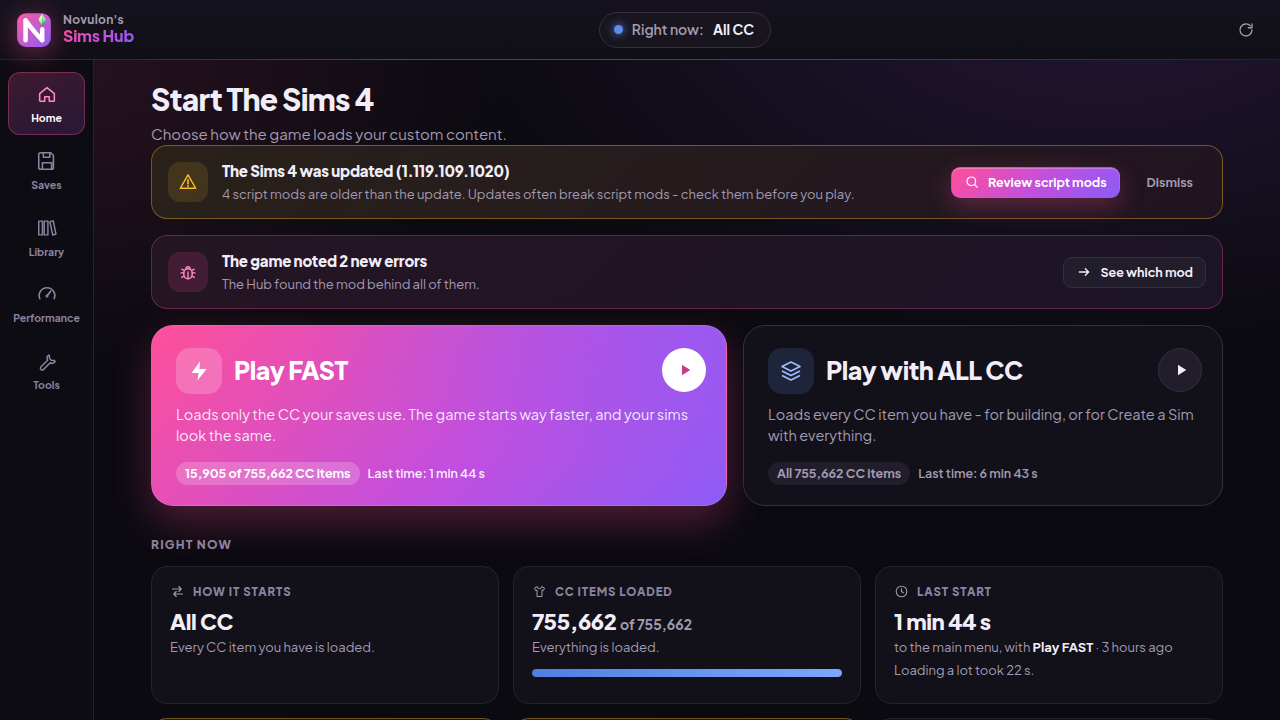
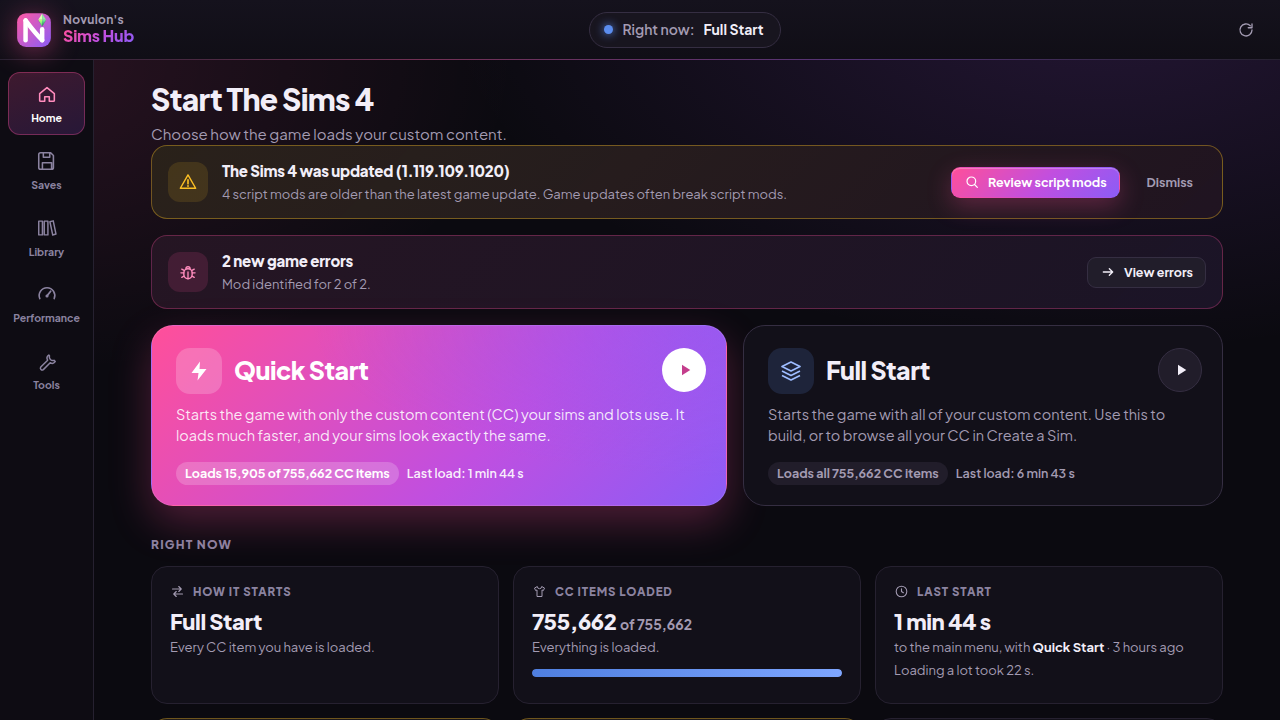
Name the start modes plainly: Quick Start and Full Start
The two start cards now say in plain words what each one does, how much CC it loads and how long the last load
took. "Play FAST" and "All CC" are renamed everywhere in the Hub.

diff --git a/sims_hub/speedkit/hub/web/js/hub.js b/sims_hub/speedkit/hub/web/js/hub.js
@@ -90,8 +90,8 @@ const gameMoved = g => !!g && g.found === false && !!(g.saved || g.exe || g.game
 
 function modeInfo(p = {}) {
   switch (p.name) {
-    case 'fast': return { key: 'FAST', title: 'Play FAST', sub: 'Only the CC your saves use is loaded.' };
-    case 'full': return { key: 'ALL CC', title: 'All CC', sub: 'Every CC item you have is loaded.', cls: 'full' };
+    case 'fast': return { key: 'QUICK', title: 'Quick Start', sub: 'Only the CC your saves use is loaded.' };
+    case 'full': return { key: 'FULL', title: 'Full Start', sub: 'Every CC item you have is loaded.', cls: 'full' };
     case 'save': {
       const s = saveBySlot(p.save_slot), m = /'(.+)'\s*$/.exec(p.label || '');
       return { key: 'ONE SAVE', title: s ? s.name : m ? m[1] : 'One save', sub: 'Only the CC this save uses is loaded.' };
@@ -101,7 +101,7 @@ function modeInfo(p = {}) {
     default: return { key: '…', title: p.label || 'Not known yet', sub: '' };
   }
 }
-const PROFILE_WORDS = { fast: 'Play FAST', full: 'All CC', save: 'One save', studio: 'Studio mode', custom: 'Your own mix' };
+const PROFILE_WORDS = { fast: 'Quick Start', full: 'Full Start', save: 'One save', studio: 'Studio mode', custom: 'Your own mix' };
 const profileWords = p => PROFILE_WORDS[p] || 'Your mods';
 
 // one entry per game start: the engine logs 'main_menu' and 'lot_loaded' as separate rows (newest first), so a
@@ -216,22 +216,22 @@ function renderHome() {
         <button class="btn primary big" data-act="find-game">${ic('search')}Locate The Sims 4</button></div>`;
     }
     const fastMeta = [];
-    if (isNum(lib.cas_fast) && isNum(lib.cas_full)) fastMeta.push(`<span class="pill">${num(lib.cas_fast)} of ${num(lib.cas_full)} CC items</span>`);
-    if (lastFast) fastMeta.push(`<span>Last time: ${dur(lastFast.launch_to_menu_s)}</span>`);
+    if (isNum(lib.cas_fast) && isNum(lib.cas_full)) fastMeta.push(`<span class="pill">Loads ${num(lib.cas_fast)} of ${num(lib.cas_full)} CC items</span>`);
+    if (lastFast) fastMeta.push(`<span>Last load: ${dur(lastFast.launch_to_menu_s)}</span>`);
     if (fp.state === 'stale' || fp.state === 'missing') fastMeta.push(`<span>First start takes a few extra minutes to get ready</span>`);
     const fullMeta = [];
-    if (isNum(lib.cas_full)) fullMeta.push(`<span class="pill">All ${num(lib.cas_full)} CC items</span>`);
-    if (lastFull) fullMeta.push(`<span>Last time: ${dur(lastFull.launch_to_menu_s)}</span>`);
+    if (isNum(lib.cas_full)) fullMeta.push(`<span class="pill">Loads all ${num(lib.cas_full)} CC items</span>`);
+    if (lastFull) fullMeta.push(`<span>Last load: ${dur(lastFull.launch_to_menu_s)}</span>`);
     top += `<div class="play-row">
       <button class="play fast" data-act="play" data-target="fast"${off}>
-        <div class="top"><div class="pic">${ic('bolt-fill')}</div><div class="t">Play FAST</div></div>
-        <div class="d">Loads only the CC your saves use. The game starts way faster, and your sims look the same.</div>
+        <div class="top"><div class="pic">${ic('bolt-fill')}</div><div class="t">Quick Start</div></div>
+        <div class="d">Starts the game with only the custom content (CC) your sims and lots use. It loads much faster, and your sims look exactly the same.</div>
         <div class="m">${fastMeta.join('')}</div>
         <span class="go">${ic('play')}</span>
       </button>
       <button class="play all" data-act="play" data-target="full"${off}>
-        <div class="top"><div class="pic">${ic('stack')}</div><div class="t">Play with ALL CC</div></div>
-        <div class="d">Loads every CC item you have - for building, or for Create a Sim with everything.</div>
+        <div class="top"><div class="pic">${ic('stack')}</div><div class="t">Full Start</div></div>
+        <div class="d">Starts the game with all of your custom content. Use this to build, or to browse all your CC in Create a Sim.</div>
         <div class="m">${fullMeta.join('')}</div>
         <span class="go">${ic('play')}</span>
       </button></div>`;
@@ -474,14 +474,14 @@ function loadTimes() {
   const fast = avg(rows.filter(r => FASTISH.has(r.profile))), full = avg(rows.filter(r => !FASTISH.has(r.profile)));
   const tiles = [
     `<div class="tile"><div class="lbl"><i class="sw" style="background:var(--fast)"></i>Fast start, on average</div><b>${fast === null ? '—' : dur(fast)}</b></div>`,
-    `<div class="tile"><div class="lbl"><i class="sw" style="background:var(--full)"></i>All CC, on average</div><b>${full === null ? '—' : dur(full)}</b></div>`,
+    `<div class="tile"><div class="lbl"><i class="sw" style="background:var(--full)"></i>Full Start, on average</div><b>${full === null ? '—' : dur(full)}</b></div>`,
     fast && full && full > fast
       ? `<div class="tile hero"><div class="lbl">${ic('bolt')}Fast start is</div><b>${(full / fast).toFixed(1).replace(/\.0$/, '')}x faster</b></div>`
       : `<div class="tile"><div class="lbl">${ic('clock')}Starts timed</div><b>${num(rows.length)}</b></div>`,
   ];
   return `<div class="tiles">${tiles.join('')}</div>
     <div class="chart" id="chart" role="img" aria-label="Start times, oldest on the left"></div>
-    <div class="legend"><span><i style="background:var(--fast)"></i>Fast start (Play FAST, one save or Studio)</span><span><i style="background:var(--full)"></i>All CC</span></div>
+    <div class="legend"><span><i style="background:var(--fast)"></i>Quicker starts (Quick Start, one save or Studio)</span><span><i style="background:var(--full)"></i>Full Start</span></div>
     <details class="more"><summary>See every start as a list</summary><div class="table-wrap"><table class="t">
       <thead><tr><th>When</th><th>How it started</th><th>To the main menu</th><th>Loading a lot</th></tr></thead><tbody>
       ${rows.map(r => `<tr><td>${esc(dayTime(r.time))}</td><td>${esc(profileWords(r.profile))}</td>
@@ -542,7 +542,7 @@ function drawChart() {
 const KIND = {
   profile: ['Changed how the game starts', 'swap'], inbox: ['Added new downloads', 'download'], dedup: ['Removed extra copies of CC', 'broom'],
   merge: ['Tidied your CC into fewer files', 'layers'], settings: ['Changed the graphics', 'image'], caches: ["Cleared the game's caches", 'broom'],
-  fastpack: ['Prepared Play FAST', 'bolt'], savepack: ['Prepared a save to play', 'bolt'], usedpack: ["Prepared your saves' CC", 'bolt'],
+  fastpack: ['Prepared Quick Start', 'bolt'], savepack: ['Prepared a save to play', 'bolt'], usedpack: ["Prepared your saves' CC", 'bolt'],
   install: ['Updated the SpeedKit Monitor', 'gauge'], monitor: ['Updated the SpeedKit Monitor', 'gauge'], cleanup: ['Removed extra copies of CC', 'broom'],
 };
 const kindOf = k => KIND[k] || ['A change', 'spark'];
@@ -558,7 +558,7 @@ function describeChange(j) {
   const note = String(j.note || ''), [label, icon] = kindOf(j.kind);
   let m, title = label;
   if (j.kind === 'profile' && (m = /^switch to (\w+)/i.exec(note))) {
-    title = { fast: 'Switched to Play FAST', full: 'Switched to All CC', studio: 'Switched to Studio mode', custom: 'Switched to your own mix' }[m[1].toLowerCase()]
+    title = { fast: 'Switched to Quick Start', full: 'Switched to Full Start', studio: 'Switched to Studio mode', custom: 'Switched to your own mix' }[m[1].toLowerCase()]
       || 'Switched to one save';
   } else if (j.kind === 'inbox' && (m = /^(\d+) download/.exec(note))) title = `Added ${plural(+m[1], 'new download')}`;
   else if (j.kind === 'settings' && /max quality/i.test(note)) title = 'Graphics: Max Quality, lag fixed';
@@ -674,8 +674,8 @@ async function ensureGraphics(force = false) {
 
 // ------------------------------------------------------------------------------------------ tasks and the progress window
 function playTitle(target) {
-  if (target === 'fast') return 'Starting Play FAST';
-  if (target === 'full') return 'Starting with ALL CC';
+  if (target === 'fast') return 'Starting with Quick Start';
+  if (target === 'full') return 'Starting with Full Start';
   if (target === 'studio') return 'Starting Studio mode';
   const s = saveBySlot(String(target || '').replace(/^save:/, ''));
   return s ? `Starting "${s.name}"` : 'Starting your save';
@@ -1310,7 +1310,7 @@ function ccCard(it) {
   if (it.broken) badges.push(`<span class="cc-badge bad" title="${esc(it.broken)}">Damaged</span>`);
   if (it.duplicate_of) badges.push(`<span class="cc-badge dup" title="Everything in it is also in ${esc(it.duplicate_of)}">Duplicate</span>`);
   if (it.used === false) badges.push(`<span class="cc-badge" title="Not used by any save or in-game library household">Not used</span>`);
-  if (!it.in_mods) badges.push(`<span class="cc-badge" title="Moved out of Mods by Play FAST or one-save mode; back with All CC">Put away</span>`);
+  if (!it.in_mods) badges.push(`<span class="cc-badge" title="Moved out of Mods by Quick Start or one-save mode; back with Full Start">Put away</span>`);
   const sub = [it.body && it.body !== it.category_label ? it.body : it.category_label, it.creator || it.folder].filter(Boolean).join(' · ');
   return `<div class="cc-card${sel ? ' selected' : ''}" data-id="${it.id}" data-cat="${esc(it.category)}" tabindex="0" title="${esc(it.rel || it.name)}">
     <div class="cc-pic">${src ? `<img src="${src}" alt="" loading="lazy" decoding="async" data-cat="${esc(it.category)}">` : `<div class="cc-ph">${ccIc(it.category)}</div>`}
@@ -1392,7 +1392,7 @@ async function ccDetails(id) {
     ${used}
     ${r.broken ? `<div class="note err">${ic('warn')}<span>${esc(r.broken)}</span></div>` : ''}
     ${r.duplicate_of ? `<div class="note warn">${ic('warn')}<span>Everything in this file is also in <b>${esc(r.duplicate_of)}</b>. Only one of the two is needed.</span></div>` : ''}
-    ${r.in_mods ? '' : `<div class="note">${ic('info')}<span>Moved out of the Mods folder by Play FAST or one-save mode. It is back when the game starts with All CC.</span></div>`}`;
+    ${r.in_mods ? '' : `<div class="note">${ic('info')}<span>Moved out of the Mods folder by Quick Start or one-save mode. It is back when the game starts with Full Start.</span></div>`}`;
   const foot = document.createElement('footer');
   foot.innerHTML = `<span class="hint">${r.kind === 'script' ? 'Script mods are left alone by the Hub.' : 'Setting aside can be undone on the Tools page.'}</span>
     <button class="btn" data-open>${ic('folder')}Open folder</button>

diff --git a/sims_hub/speedkit/hub/web/js/care.js b/sims_hub/speedkit/hub/web/js/care.js
@@ -44,7 +44,7 @@ function mins(s) {
   const m = Math.round(s / 60);
   return m < 60 ? `${m} min` : `${Math.floor(m / 60)} h ${m % 60} min`;
 }
-const MODE = { fast: 'Play FAST', save: 'One save', full: 'All CC', studio: 'Studio mode', other: 'Other' };
+const MODE = { fast: 'Quick Start', save: 'One save', full: 'Full Start', studio: 'Studio mode', other: 'Other' };
 const fileOf = rel => String(rel || '').split('/').pop();
 
 // -------------------------------------------------------------------------------- Home
@@ -88,7 +88,7 @@ export function homeSavings() {
         <b>${mins(d.total_s)}</b><small>${H.plural(d.starts, 'start')}</small></div>`;
     }).join('')}</div>`;
     if (H.isNum(r.saved_s) && r.saved_s > 0) {
-      body += `<div class="care-saved">${ic('bolt')}<div><b>${esc(MODE[r.compare] || 'Play FAST')}: about ${mins(r.saved_s)} less per start than All CC</b>
+      body += `<div class="care-saved">${ic('bolt')}<div><b>${esc(MODE[r.compare] || 'Quick Start')}: about ${mins(r.saved_s)} less per start than Full Start</b>
         ${H.isNum(r.saved_total_s) && r.saved_total_s >= 120 ? `<span>${mins(r.saved_total_s)} saved in total so far.</span>` : ''}</div></div>`;
     }
     if (r.confidence !== 'ok') body += `<div class="note">${ic('info')}<span>${esc(r.message)}</span></div>`;

diff --git a/sims_hub/tests/test_hub_screens.py b/sims_hub/tests/test_hub_screens.py
@@ -28,20 +28,20 @@ OUT = os.environ.get('SIMS_HUB_SCREENS') or os.path.join(os.path.dirname(os.path
 
 # (name, url, window size, what the page must show)
 PAGES = [
-    ('home', '/#home', (1440, 1000), ['Start The Sims 4', 'Play FAST', 'Play with ALL CC', 'Chrome is using 20 GB', '755,662',
+    ('home', '/#home', (1440, 1000), ['Start The Sims 4', 'Quick Start', 'Full Start', 'Chrome is using 20 GB', '755,662',
                                     'Loading a lot took 22 s']),
-    ('home_1280x720', '/#home', (1280, 720), ['Play FAST']),
+    ('home_1280x720', '/#home', (1280, 720), ['Quick Start']),
     ('saves', '/#saves', (1440, 1000), ['Wicked Nights', '12,480 CC items', 'Play this save', 'Novulon · Del Sol Valley']),
     ('saves_1100x700', '/#saves', (1100, 700), ['Legacy Challenge']),
     ('library', '/#library', (1440, 1200), ['Add new downloads', 'Sentate_Venus_Dress.package', 'Free up space', 'Library report', 'Inbox']),
     ('performance', '/#performance', (1440, 2000), ['How far away sims keep full detail', 'speedkit.lag', 'faster', 'Graphics']),
-    ('tools', '/#tools', (1440, 1250), ["Open Novulon's Wicked Animator", 'Undo last change', 'Switched to All CC', 'E:\\The Sims 4',
+    ('tools', '/#tools', (1440, 1250), ["Open Novulon's Wicked Animator", 'Undo last change', 'Switched to Full Start', 'E:\\The Sims 4',
                                          'Added 3 new downloads', 'Installed the SpeedKit Monitor', 'Removed extra copies of CC']),
     ('tools_900x800', '/#tools', (900, 800), ['Recent changes']),
     ('finder', '/?open=finder#home', (1440, 1000), ['Find The Sims 4', 'Found on this PC', 'Use this', 'Games (E:)', '402 GB free']),
     ('finder_folder', '/?open=finder&path=E%3A%5C#home', (1440, 1000), ['SteamLibrary', 'Steam', 'Select']),
     ('finder_game_folder', '/?open=finder&path=E%3A%5CThe%20Sims%204#home', (1440, 1000), ['This folder is The Sims 4', 'Game', 'Data']),
-    ('confirm_undo', '/?open=undo#tools', (1440, 1000), ['Undo the last change?', 'Switched to All CC', 'Keep it']),
+    ('confirm_undo', '/?open=undo#tools', (1440, 1000), ['Undo the last change?', 'Switched to Full Start', 'Keep it']),
     ('confirm_cleanup', '/?open=cleanup#library', (1440, 1000), ['Free up 18.2 GB?', '4,210']),
 ]
 # pages that need the example data changed first: name -> (url, size, must show, setup(state))
@@ -174,7 +174,7 @@ class HubScreens(unittest.TestCase):
         stub_api.HOLD, stub_api.HOLD_AT = threading.Event(), 3
         hub.start('play', {'target': 'fast'})
         try:
-            self.check('task_running', '/#home', (1440, 1000), ['Starting Play FAST', 'Updating the SpeedKit Monitor'])
+            self.check('task_running', '/#home', (1440, 1000), ['Starting Quick Start', 'Updating the SpeedKit Monitor'])
         finally:
             stub_api.HOLD.set()
         for _ in range(200):

diff --git a/sims_hub/speedkit/hub/stub_api.py b/sims_hub/speedkit/hub/stub_api.py
@@ -48,7 +48,7 @@ def _initial_state():
         'game_running': False,
         'game': {'found': True, 'exe': r'E:\The Sims 4\Game\Bin\TS4_x64.exe', 'game_dir': r'E:\The Sims 4',
                  'source': 'EA app', 'store': 'ea', 'saved': False, 'message': r'The Sims 4 is at E:\The Sims 4.'},
-        'profile': {'name': 'full', 'save_slot': None, 'label': 'All CC - every mod is loaded'},
+        'profile': {'name': 'full', 'save_slot': None, 'label': 'Full Start - all CC is loaded'},
         'graphics': {'state': 'sgr_full', 'label': "Simp4Sims 'SGR Full' - looks great but causes lag", 'can_tune': True,
                      'details': ['Sims far away are drawn in full detail, which slows the game down.',
                                  'Shadows and reflections are set higher than the game can use.']},
@@ -158,7 +158,7 @@ def list_saves(progress=None):
 
 
 # ------------------------------------------------------------------ play
-_LABELS = {'fast': ('fast', 'Fast mode - only the CC your sims use'), 'full': ('full', 'All CC - every mod is loaded'),
+_LABELS = {'fast': ('fast', 'Quick Start - only the CC your sims use'), 'full': ('full', 'Full Start - all CC is loaded'),
            'studio': ('studio', 'Studio - the animation work set')}
 
 
@@ -239,7 +239,7 @@ def undo_last(progress=None):
         if last['kind'] == 'settings':
             STATE['graphics'].update(state='sgr_full', label="Simp4Sims 'SGR Full' - looks great but causes lag", can_tune=True)
         if last['kind'] == 'profile':
-            STATE['profile'] = {'name': 'full', 'save_slot': None, 'label': 'All CC - every mod is loaded'}
+            STATE['profile'] = {'name': 'full', 'save_slot': None, 'label': 'Full Start - all CC is loaded'}
         if last['kind'] == 'setaside':
             _cc_restore(last['id'])
     on_undo(last)                    # patch day / save backups (stub_care.py)
@@ -802,8 +802,8 @@ def cc_set_aside(ids, progress=None):
             elif it['kind'] == 'script':
                 refused.append({'name': it['name'], 'why': 'Script mods are not changed by the Hub.'})
             elif not it['in_mods']:
-                refused.append({'name': it['name'], 'why': "It is not in the Mods folder right now (moved out by Play FAST or "
-                                                           "one-save mode). Switch to All CC first."})
+                refused.append({'name': it['name'], 'why': "It is not in the Mods folder right now (moved out by Quick Start or "
+                                                           "one-save mode). Switch to Full Start first."})
             else:
                 done.append(it)
     if not done:

diff --git a/sims_hub/speedkit/loadstats.py b/sims_hub/speedkit/loadstats.py
@@ -1,4 +1,4 @@
-r"""How long the game takes to load in each mode, and the time Play FAST saves - from SpeedKit Monitor's
+r"""How long the game takes to load in each mode, and the time Quick Start saves - from SpeedKit Monitor's
 loadtimes.csv (<Sims 4>\SpeedKit\reports\loadtimes.csv, columns in docs\ingame.md).
 
     summary(csv_path)   # {'modes': {...}, 'saved_s', 'saved_total_s', 'confidence', 'message'}
@@ -9,7 +9,7 @@ One entry per game start (rows are grouped by their 'launch_time'; rows without 
     picking a save, not the time spent in the menu;
   * load time = both together (only the menu part when no lot was loaded).
 A mode's typical time is the median of its starts (one very slow start - a patch, an update of the fast pack -
-does not skew it). The saving compares All CC with the fast modes (Play FAST, else One save) and is only
+does not skew it). The saving compares Full Start with the fast modes (Quick Start, else One save) and is only
 claimed when both have starts; 'confidence' is 'none' (no starts), 'one_mode' (only one side measured), 'low'
 (fewer than 3 starts on a side) or 'ok'.
 """
@@ -124,7 +124,7 @@ def _dur(s):
     return '%d h %d min' % (m // 60, m % 60)
 
 
-WORDS = {'fast': 'Play FAST', 'save': 'One save', 'full': 'All CC', 'studio': 'Studio mode', 'other': 'Other'}
+WORDS = {'fast': 'Quick Start', 'save': 'One save', 'full': 'Full Start', 'studio': 'Studio mode', 'other': 'Other'}
 
 
 def _message(view, fast_key, saved, confidence):
@@ -135,10 +135,10 @@ def _message(view, fast_key, saved, confidence):
     line = ' - '.join(parts)
     if confidence == 'one_mode':
         if view.get('full') and view['full']['total_s']:
-            return line + '. Start once with Play FAST to compare.'
-        return line + '. Start once with All CC to compare.'
+            return line + '. Start once with Quick Start to compare.'
+        return line + '. Start once with Full Start to compare.'
     if saved is not None and saved <= 0:
-        return line + '. So far Play FAST has not been quicker on this PC.'
+        return line + '. So far Quick Start has not been quicker on this PC.'
     tail = ' (about %s less per start)' % _dur(saved) if saved else ''
     if confidence == 'low':
         return line + tail + '. Based on only a few starts so far; the figures become more reliable with more starts.'

diff --git a/sims_hub/speedkit/report.py b/sims_hub/speedkit/report.py
@@ -34,7 +34,7 @@ th{background:#2a2140;color:#cbb8ff}
 
 
 # the words the Hub uses (docs\hub_contract.md: no 'package', 'profile', 'journal', 'CAS part' ...)
-MODE_WORDS = {'fast': 'Play FAST', 'full': 'All CC', 'save': 'One save', 'studio': 'Studio mode',
+MODE_WORDS = {'fast': 'Quick Start', 'full': 'Full Start', 'save': 'One save', 'studio': 'Studio mode',
               'lean': 'Studio mode', 'custom': 'Your own mix'}
 PACK_WORDS = {'fresh': 'ready', 'stale': 'gets a quick update when you press Play',
               'missing': 'made the first time you press Play'}
@@ -62,17 +62,17 @@ def build(status, saves, graphics_table):
     for label, value in (('CC and mod files', '%s files' % _num(lib.get('packages'))),
                          ('Library size', '%s GB' % _num(lib.get('gb'), '{:,.1f}')),
                          ('CC items (all CC)', _num(cas_full)),
-                         ('CC items (Play FAST)', _num(cas_fast)),
+                         ('CC items (Quick Start)', _num(cas_fast)),
                          ('How the game starts', MODE_WORDS.get(prof.get('name')) or prof.get('label')),
                          ('Graphics', gr.get('label')),
                          ('Free memory', '%s of %s GB' % (_num(mem.get('free_gb'), '{:.1f}'), _num(mem.get('total_gb'), '{:.1f}'))),
-                         ('Play FAST', '%s%s' % (PACK_WORDS.get(fp.get('state'), fp.get('state') or '-'),
+                         ('Quick Start', '%s%s' % (PACK_WORDS.get(fp.get('state'), fp.get('state') or '-'),
                                                  (' (%.1f GB)' % fp['gb']) if fp.get('gb') else '')),
                          ('Free on C:', '%s GB' % _num((st.get('disk') or {}).get('c_free_gb'), '{:.0f}'))):
         out.append("<div class='card'>%s<b>%s</b></div>" % (_e(label), _e(value)))
     out.append('</div>')
     if cas_full and cas_fast:
-        out.append("<p>Play FAST loads <b>%.1f%%</b> of your CC items - the number that decides how long the game "
+        out.append("<p>Quick Start loads <b>%.1f%%</b> of your CC items - the number that decides how long the game "
                    "takes to start.</p>" % (100.0 * cas_fast / cas_full))
     out.append('<h2>Your saves</h2>')
     if saves:

diff --git a/sims_hub/tests/test_e2e_hub.py b/sims_hub/tests/test_e2e_hub.py
@@ -1035,7 +1035,7 @@ class Story(unittest.TestCase):
         self.assertEqual(st['inbox'], {'path': os.path.join(self.home, 'Inbox'), 'waiting': 0})
         self.assertEqual(st['animator'], {'installed': True, 'path': self.w['animator']})
         self.check_all('1 status', 'studio')
-        self.screens('01_start', must={'home': ['Start The Sims 4', 'Play FAST', 'Play with ALL CC', 'Studio mode',
+        self.screens('01_start', must={'home': ['Start The Sims 4', 'Quick Start', 'Full Start', 'Studio mode',
                                                 CC_SENTENCE['studio']],
                                        'tools': ['Recent changes', "Open Novulon's Wicked Animator", REAL_GAME]})
 
@@ -1102,7 +1102,7 @@ class Story(unittest.TestCase):
         self.assertEqual(st['library']['cas_now'], self.cas_entries_in_mods())
         self.assertLess(st['library']['cas_now'], st['library']['cas_full'])
         self.screens('03_fast', ('home', 'saves', 'performance'),
-                     must={'home': [CC_SENTENCE['fast'], 'Play FAST', 'Max Quality, lag fixed'],
+                     must={'home': [CC_SENTENCE['fast'], 'Quick Start', 'Max Quality, lag fixed'],
                            'saves': list(self.save_names.values())})
 
     def cas_entries_in_mods(self):
@@ -1228,7 +1228,7 @@ class Story(unittest.TestCase):
     def test_10_cleanup(self):
         r = self.task('cleanup_plan')
         self.assertFalse(r['ok'])
-        self.assertIn('All CC', r['message'])
+        self.assertIn('Full Start', r['message'])
         self._play('full', launch=False)
         self.check_all('10a prepare full', 'full', refusals=False)
         eff_db = os.path.join(self.w['data'], 'effective.sqlite')

diff --git a/sims_hub/speedkit/api.py b/sims_hub/speedkit/api.py
@@ -280,7 +280,7 @@ def _game_ids(game):
 
 
 # ------------------------------------------------------------------------------------------ status
-PROFILE_LABELS = {'full': 'All CC - every mod is loaded', 'fast': 'Fast mode - only the CC your sims use',
+PROFILE_LABELS = {'full': 'Full Start - all CC is loaded', 'fast': 'Quick Start - only the CC your sims use',
                   'studio': 'Studio - the animation work set', 'custom': 'Custom - changed by hand or another tool'}
 
 
@@ -614,7 +614,7 @@ def _journals(limit=15):
     return out[:limit] if limit else out
 
 
-_MODE_WORDS = {'full': 'All CC', 'fast': 'Fast mode', 'studio': 'Studio', 'save': 'Play this save'}
+_MODE_WORDS = {'full': 'Full Start', 'fast': 'Quick Start', 'studio': 'Studio', 'save': 'Play this save'}
 
 
 def _title(j):
@@ -1035,7 +1035,7 @@ def _plain_warning(w):
 
 
 def _switch_message(profile, slot, plan):
-    names = {'full': 'All CC', 'fast': 'Fast mode', 'studio': 'Studio'}
+    names = {'full': 'Full Start', 'fast': 'Quick Start', 'studio': 'Studio'}
     what = names.get(profile) or 'Play this save (%s)' % slot
     if plan.get('nothing_to_do'):
         return 'Mods folder: already set to %s.' % what
@@ -1395,7 +1395,7 @@ def _packs_in_mods():
     return out
 
 
-PACKS_IN_MODS = "Freeing disk space works in the 'All CC' mode only. Prepare 'All CC' first, then try again."
+PACKS_IN_MODS = "Freeing disk space works in the 'Full Start' mode only. Prepare 'Full Start' first, then try again."
 
 
 def _dedup_plan(tell):

diff --git a/sims_hub/tests/test_care_loadtimes.py b/sims_hub/tests/test_care_loadtimes.py
@@ -38,11 +38,11 @@ class LoadTimes(unittest.TestCase):
         r = api.load_savings()
         self.assertEqual(r['confidence'], 'one_mode')
         self.assertIsNone(r['saved_s'])
-        self.assertIn('All CC: 43 min', r['message'])
-        self.assertIn('Start once with Play FAST to compare', r['message'])
+        self.assertIn('Full Start: 43 min', r['message'])
+        self.assertIn('Start once with Quick Start to compare', r['message'])
         F.write_loadtimes(self.sims, [('2026-09-20 18:00:00', 'fast', 170.0, 10.0)])
         r = api.load_savings()
-        self.assertIn('Start once with All CC to compare', r['message'])
+        self.assertIn('Start once with Full Start to compare', r['message'])
 
     def test_few_starts_are_said_to_be_few(self):
         F.write_loadtimes(self.sims, [('2026-09-20 18:00:00', 'full', 2400.0, 180.0),
@@ -50,7 +50,7 @@ class LoadTimes(unittest.TestCase):
         r = api.load_savings()
         self.assertEqual(r['confidence'], 'low')
         self.assertEqual(r['saved_s'], 2400.0)
-        self.assertIn('Play FAST: 3 min - All CC: 43 min (about 40 min less per start)', r['message'])
+        self.assertIn('Quick Start: 3 min - Full Start: 43 min (about 40 min less per start)', r['message'])
         self.assertIn('only a few starts', r['message'])
 
     def test_medians_and_total_saved(self):

diff --git a/sims_hub/speedkit/hub/care_routes.py b/sims_hub/speedkit/hub/care_routes.py
@@ -4,7 +4,7 @@ server.py hands these requests over (its docstring lists them):
   GET  /api/patchday[?refresh=1]      api.patch_day(): the game's last update, older script mods, mods set aside
   GET  /api/errors[?refresh=1]        api.game_errors(): the game's error reports, grouped, with the mod named
   GET  /api/save_health[?refresh=1]   api.save_health(): each save's size and growth, and the save backups
-  GET  /api/load_savings[?refresh=1]  api.load_savings(): load time per mode and the time Play FAST saves
+  GET  /api/load_savings[?refresh=1]  api.load_savings(): load time per mode and the time Quick Start saves
       (these read files only; while a task runs they give their last answer, or 'busy')
   POST /api/patchday/seen             api.patch_seen(): the patch-day notice was seen
   POST /api/errors/seen               api.errors_seen(): hide the errors seen so far

diff --git a/sims_hub/tests/test_care_ui.py b/sims_hub/tests/test_care_ui.py
@@ -137,7 +137,7 @@ class CareUI(unittest.TestCase):
         self.assertIn('4 script mods are older than the latest game update', p.inner_text('[data-care="patch-banner"]'))
         self.assertIn('2 new game errors', p.inner_text('[data-care="errors-banner"]'))
         savings = p.inner_text('[data-care="savings"]')
-        for words in ('How long the game takes to load', 'Play FAST', 'All CC', 'about 6 min less per start than All CC'):
+        for words in ('How long the game takes to load', 'Quick Start', 'Full Start', 'about 6 min less per start than Full Start'):
             self.assertIn(words, savings)
         self.assertTrue(any(path.startswith('load_savings') for _, path, _ in self.calls))
         # "Dismiss" tells the server and the notice goes

diff --git a/sims_hub/speedkit/ccbrowser.py b/sims_hub/speedkit/ccbrowser.py
@@ -1172,8 +1172,8 @@ def set_aside(idx, ids, sims, home, check_game=True, progress=None, journal_cls=
             continue
         path = os.path.join(mods, row['rel'].replace('/', os.sep))
         if row['root'] != 'Mods' or not os.path.isfile(path):
-            refused.append((name, "It is not in the Mods folder right now (moved out by Play FAST or one-save mode). "
-                                  "Switch to All CC first."))
+            refused.append((name, "It is not in the Mods folder right now (moved out by Quick Start or one-save mode). "
+                                  "Switch to Full Start first."))
             continue
         st = os.stat(path)
         if st.st_size != row['size'] or abs(st.st_mtime - row['mtime']) > 1e-3:
